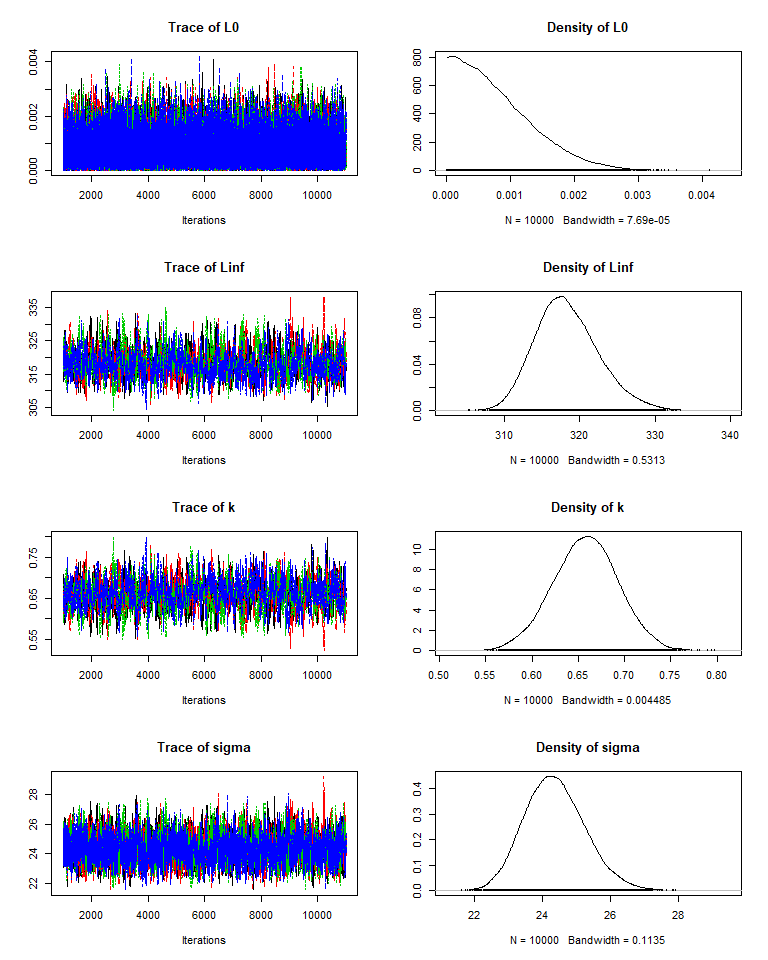
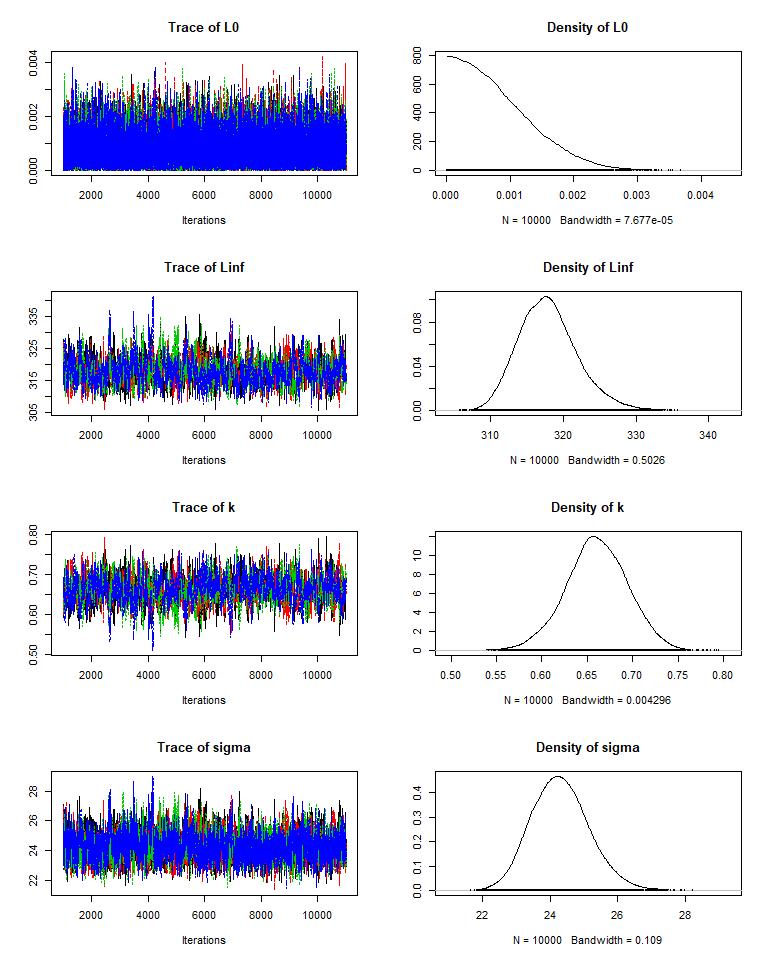
DOI added

diff --git a/README.md b/README.md
@@ -7,6 +7,7 @@
 
 [![Travis build
 status](https://travis-ci.org/jonathansmart/BayesGrowth.svg?branch=master)](https://travis-ci.org/jonathansmart/BayesGrowth)
+[![DOI](https://zenodo.org/badge/223878432.svg)](https://zenodo.org/badge/latestdoi/223878432)
 <!-- badges: end -->
 
 BayesGrowth combines length-at-age modelling for fisheries with MCMC
@@ -86,13 +87,13 @@ head(results)
 #> End = 1007 
 #> Thinning interval = 1 
 #>                L0     Linf         k    sigma
-#> [1,] 1.483223e-04 317.9185 0.6584323 23.09712
-#> [2,] 1.088073e-04 314.9857 0.7077662 23.94156
-#> [3,] 6.927317e-04 312.7845 0.6974341 24.31017
-#> [4,] 1.094180e-03 313.6392 0.6831496 23.85641
-#> [5,] 2.335037e-04 313.6508 0.6846770 23.45256
-#> [6,] 3.932446e-05 315.5822 0.6830659 23.71317
-#> [7,] 1.172375e-03 315.3345 0.6751340 23.89506
+#> [1,] 4.488882e-05 325.6767 0.5960316 26.59236
+#> [2,] 7.517356e-05 326.6002 0.5986476 25.38877
+#> [3,] 7.385076e-05 324.2891 0.5983142 25.59835
+#> [4,] 4.121038e-04 325.8852 0.5922294 25.69103
+#> [5,] 1.641973e-05 326.0010 0.5934298 27.12353
+#> [6,] 4.553976e-04 327.8349 0.5934005 25.19848
+#> [7,] 1.578843e-03 326.0242 0.6058683 26.54532
 #> 
 #> [[2]]
 #> Markov Chain Monte Carlo (MCMC) output:
@@ -100,13 +101,13 @@ head(results)
 #> End = 1007 
 #> Thinning interval = 1 
 #>                L0     Linf         k    sigma
-#> [1,] 6.244722e-06 321.6067 0.6252368 24.62203
-#> [2,] 2.099683e-04 321.0802 0.6310686 25.22636
-#> [3,] 8.470106e-04 320.1362 0.6363388 24.55732
-#> [4,] 1.172123e-03 319.3396 0.6474557 24.62156
-#> [5,] 2.530439e-04 319.2197 0.6509728 24.56522
-#> [6,] 8.747307e-04 319.4180 0.6429824 24.36231
-#> [7,] 8.581534e-04 320.1235 0.6472748 24.40982
+#> [1,] 0.0017147504 326.8731 0.5991217 26.32451
+#> [2,] 0.0002984886 325.8409 0.5981972 26.96292
+#> [3,] 0.0011963286 325.8721 0.6098430 25.53892
+#> [4,] 0.0009314804 322.8726 0.6100467 25.00895
+#> [5,] 0.0018254837 324.4057 0.6064083 25.90006
+#> [6,] 0.0007660022 325.2780 0.5982529 25.27672
+#> [7,] 0.0009750646 325.8695 0.6000366 25.25688
 #> 
 #> [[3]]
 #> Markov Chain Monte Carlo (MCMC) output:
@@ -114,13 +115,13 @@ head(results)
 #> End = 1007 
 #> Thinning interval = 1 
 #>                L0     Linf         k    sigma
-#> [1,] 0.0009256165 316.2487 0.6827975 24.43492
-#> [2,] 0.0010140519 315.3772 0.6783669 24.11184
-#> [3,] 0.0008368855 317.7474 0.6500937 24.24865
-#> [4,] 0.0002750489 320.1016 0.6347589 25.09238
-#> [5,] 0.0007506519 320.7512 0.6389933 25.46154
-#> [6,] 0.0008077506 320.9486 0.6390802 25.15107
-#> [7,] 0.0002158804 320.5103 0.6344164 25.07480
+#> [1,] 1.662549e-04 324.4075 0.6065113 25.17975
+#> [2,] 8.069489e-04 325.5753 0.6096032 25.85848
+#> [3,] 1.256401e-03 323.6330 0.6161591 23.89699
+#> [4,] 6.643710e-04 323.1181 0.6187880 24.88484
+#> [5,] 3.401003e-05 321.0391 0.6208219 24.71695
+#> [6,] 1.345030e-03 322.6422 0.6236229 24.83958
+#> [7,] 1.342958e-03 323.6096 0.6241476 25.59646
 #> 
 #> [[4]]
 #> Markov Chain Monte Carlo (MCMC) output:
@@ -128,13 +129,13 @@ head(results)
 #> End = 1007 
 #> Thinning interval = 1 
 #>                L0     Linf         k    sigma
-#> [1,] 0.0006687971 320.6138 0.6449687 25.43026
-#> [2,] 0.0017699870 319.3084 0.6429564 23.57450
-#> [3,] 0.0003399080 318.0155 0.6445651 24.27122
-#> [4,] 0.0001095932 319.8841 0.6245990 24.35767
-#> [5,] 0.0015312030 320.4358 0.6315083 25.62919
-#> [6,] 0.0001178656 320.5521 0.6444621 23.69427
-#> [7,] 0.0022664313 318.0471 0.6451985 23.46126
+#> [1,] 0.0003766009 318.1324 0.6740486 24.93456
+#> [2,] 0.0014715359 314.3714 0.6703935 24.87597
+#> [3,] 0.0020864968 316.0134 0.6830210 24.68304
+#> [4,] 0.0012641278 313.3945 0.6883822 24.58046
+#> [5,] 0.0016279314 316.1042 0.6809096 23.23320
+#> [6,] 0.0003830199 315.6487 0.6773715 25.33736
+#> [7,] 0.0002557087 317.1293 0.6666446 23.74806
 #> 
 #> attr(,"class")
 #> [1] "mcmc.list"
@@ -154,18 +155,18 @@ summary(results)
 #>    plus standard error of the mean:
 #> 
 #>            Mean       SD  Naive SE Time-series SE
-#> L0    7.962e-04 0.000604 3.020e-06      3.006e-06
-#> Linf  3.183e+02 4.255942 2.128e-02      1.466e-01
-#> k     6.579e-01 0.035325 1.766e-04      1.208e-03
-#> sigma 2.436e+01 0.891578 4.458e-03      2.287e-02
+#> L0    8.003e-04 0.000603 3.015e-06      3.004e-06
+#> Linf  3.180e+02 4.146394 2.073e-02      1.424e-01
+#> k     6.604e-01 0.034451 1.723e-04      1.171e-03
+#> sigma 2.431e+01 0.868429 4.342e-03      2.221e-02
 #> 
 #> 2. Quantiles for each variable:
 #> 
 #>            2.5%       25%       50%       75%     97.5%
-#> L0    3.154e-05 3.161e-04 6.690e-04 1.149e-03 2.254e-03
-#> Linf  3.109e+02 3.154e+02 3.180e+02 3.210e+02 3.277e+02
-#> k     5.873e-01 6.344e-01 6.583e-01 6.816e-01 7.268e-01
-#> sigma 2.273e+01 2.374e+01 2.432e+01 2.494e+01 2.624e+01
+#> L0    3.341e-05 3.211e-04 6.779e-04 1.153e-03 2.234e-03
+#> Linf  3.108e+02 3.151e+02 3.177e+02 3.204e+02 3.272e+02
+#> k     5.901e-01 6.384e-01 6.605e-01 6.836e-01 7.264e-01
+#> sigma 2.274e+01 2.371e+01 2.427e+01 2.486e+01 2.614e+01
 plot(results,density = T, smooth = F)
 ```
 
